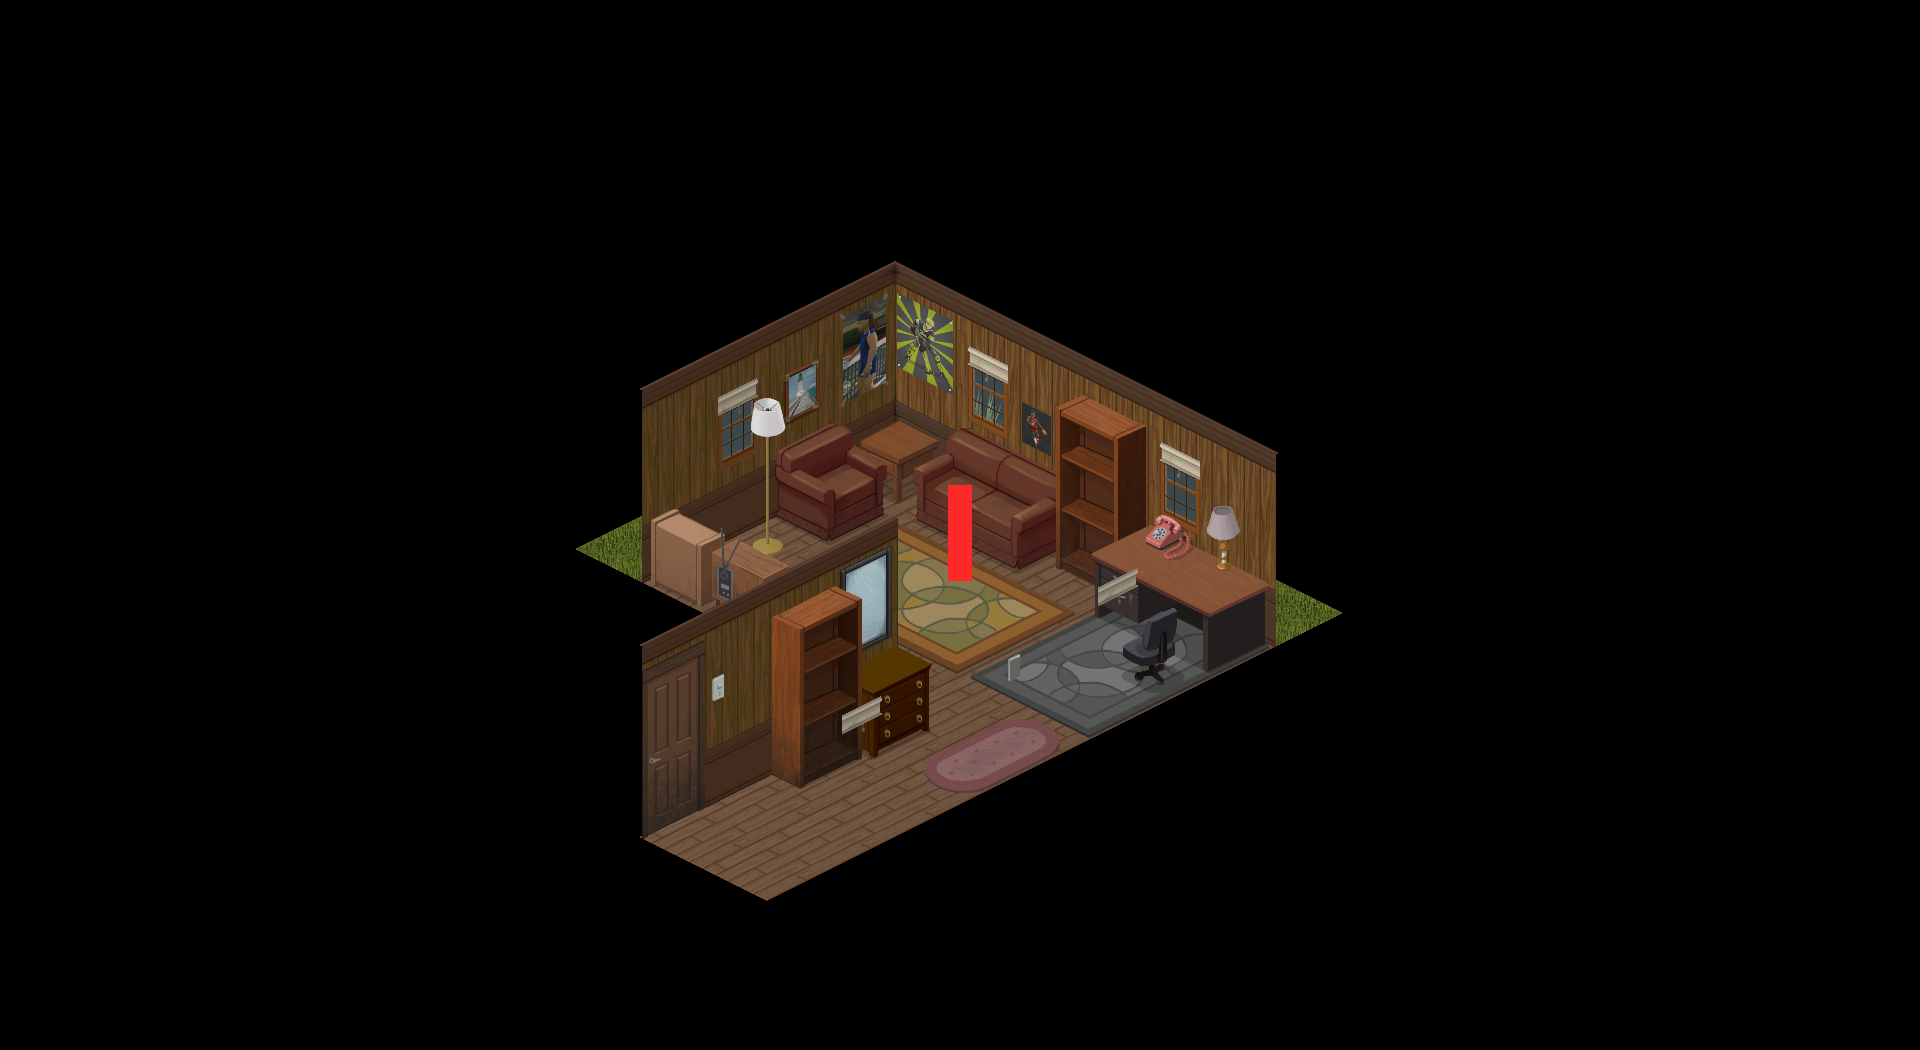
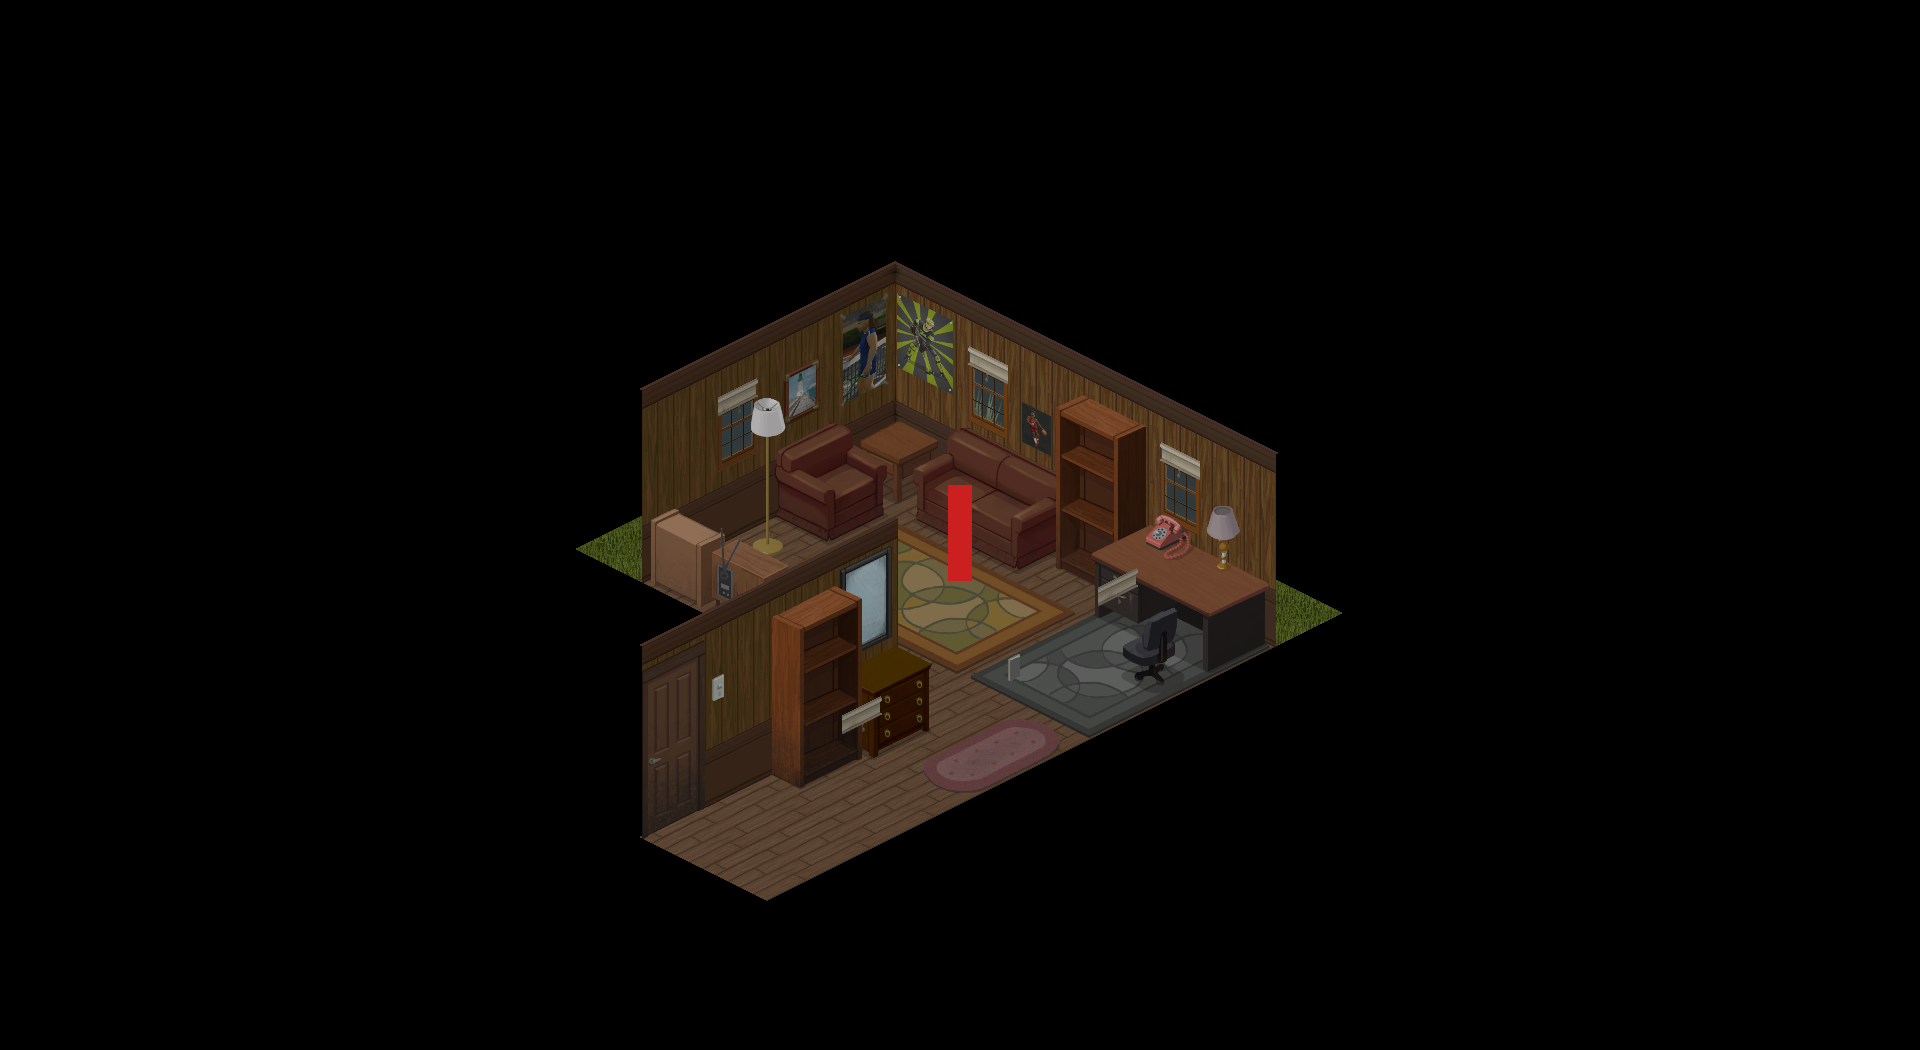
Night ambient for the lit room (measured on two real frames)
Flat x0.8 multiplier via a fragment uniform; --lit-room implies it. Frame
difference vs the real game 16.27 -> 15.16 and 27.09 -> 26.09 (of 255).
Adds tools/ratio_map.mjs and tools/room_ratio.mjs; ledger records the sweep
and what stays unknown (light patch, vision cone, time of day).

diff --git a/crates/zomboid-client/src/main.rs b/crates/zomboid-client/src/main.rs
@@ -21,6 +21,8 @@ const CAM_OVER_FEET: f32 = 56.0;
 struct CamU {
     center: [f32; 2],
     scale: [f32; 2],
+    /// x = ambient multiplier on the world colour (1.0 = unlit), yzw unused
+    light: [f32; 4],
 }
 
 #[derive(Clone, Copy)]
@@ -28,6 +30,7 @@ struct Camera {
     center: [f32; 2],
     zoom: f32,
     max_level: usize,
+    ambient: f32,
 }
 
 struct Gfx {
@@ -80,7 +83,7 @@ impl Gfx {
         });
         let cam_buf = device.create_buffer(&wgpu::BufferDescriptor {
             label: Some("cam"),
-            size: 16,
+            size: 32,
             usage: wgpu::BufferUsages::UNIFORM | wgpu::BufferUsages::COPY_DST,
             mapped_at_creation: false,
         });
@@ -94,7 +97,7 @@ impl Gfx {
             entries: &[
                 wgpu::BindGroupLayoutEntry {
                     binding: 0,
-                    visibility: wgpu::ShaderStages::VERTEX,
+                    visibility: wgpu::ShaderStages::VERTEX | wgpu::ShaderStages::FRAGMENT,
                     ty: wgpu::BindingType::Buffer {
                         ty: wgpu::BufferBindingType::Uniform,
                         has_dynamic_offset: false,
@@ -208,6 +211,7 @@ impl Gfx {
                 2.0 * cam.zoom / size.0 as f32,
                 2.0 * cam.zoom / size.1 as f32,
             ],
+            light: [cam.ambient, 0.0, 0.0, 0.0],
         };
         self.queue
             .write_buffer(&self.cam_buf, 0, bytemuck::bytes_of(&u));
@@ -568,6 +572,7 @@ fn main() -> anyhow::Result<()> {
         center: [(gx - gy) * 64.0, (gx + gy) * 32.0],
         zoom: 0.5,
         max_level: top,
+        ambient: 1.0,
     };
     if let Some(i) = a.iter().position(|s| s == "--shot") {
         let f = |n: usize, d: f32| a.get(i + n).and_then(|s| s.parse().ok()).unwrap_or(d);
@@ -580,6 +585,13 @@ fn main() -> anyhow::Result<()> {
             .iter()
             .position(|s| s == "--player")
             .map(|j| (a[j + 1].parse().unwrap(), a[j + 2].parse().unwrap()));
+        // Night ambient on lit squares: game/port luma ratio is ~0.8 in the room interior on two real frames (docs/COMPATIBILITY.md, tools/ratio_map.mjs).
+        if a.iter().any(|s| s == "--lit-room") {
+            cam.ambient = 0.8;
+        }
+        if let Some(j) = a.iter().position(|s| s == "--ambient") {
+            cam.ambient = a[j + 1].parse().unwrap_or(1.0);
+        }
         if a.iter().any(|s| s == "--lit-room") {
             if let Some((px, py)) = pl {
                 println!(
